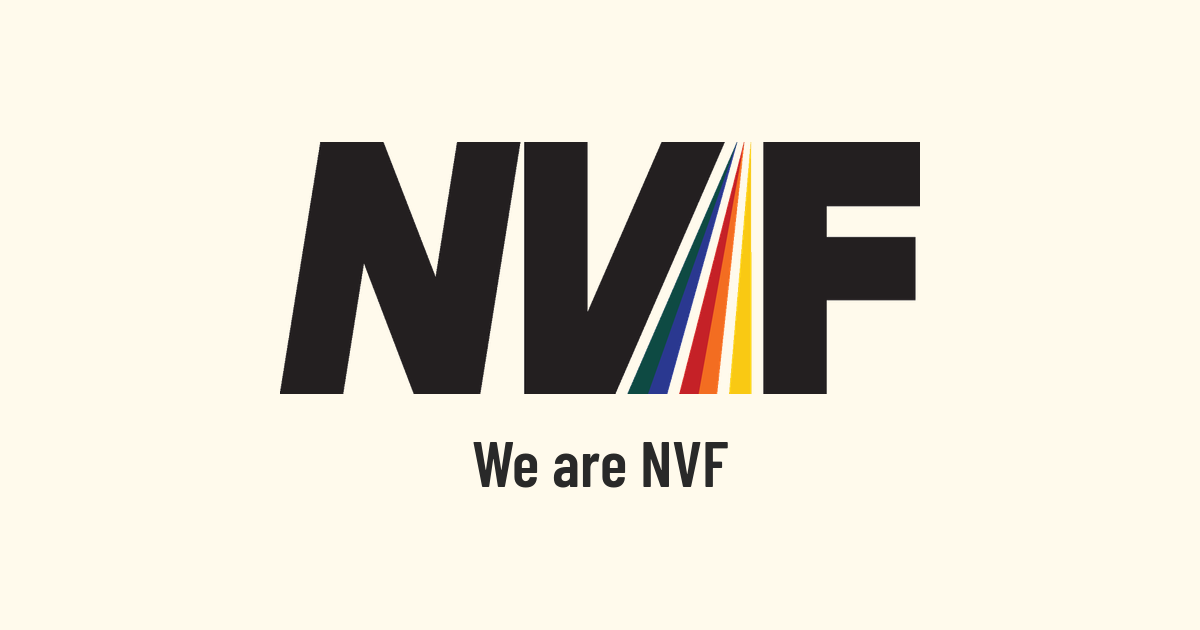
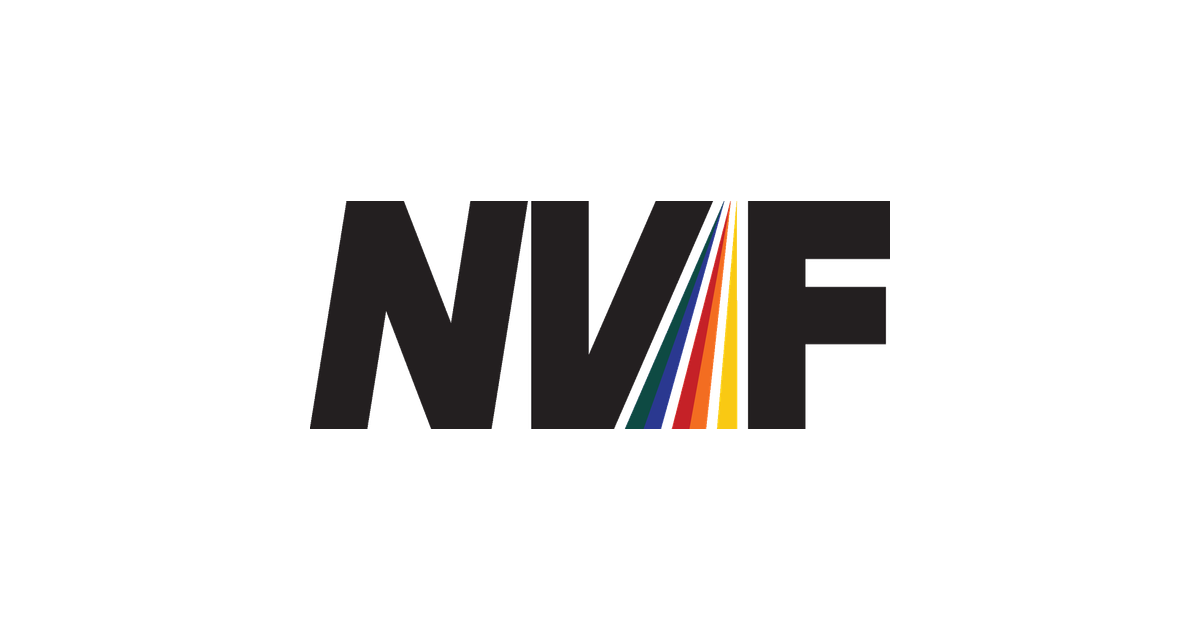
feat(seo): plain NVF mark and "Loving every frame" as the link preview
The owners' choice: the colour mark alone on white, sized to survive
WhatsApp's centre-square crop, and their line "Loving every frame" as the
homepage og:description. ?v=2 makes cached previews fetch the new image.

Changed region(s): [[0.2158, 0.2111, 0.7708, 0.7841]]

diff --git a/docs/PROJECT_CONTEXT.md b/docs/PROJECT_CONTEXT.md
@@ -2403,3 +2403,11 @@ The homepage's og:image is `public/brand/share.png`, 1200x630: the colour mark o
 `nvf-colour.png` and the TTF in `source-assets/fonts/`, colours read from
 `tokens.colour.css`. Other pages keep their own image. Released without the Codex review, on
 the user's instruction.
+
+## 43. Link preview: the plain mark and "Loving every frame" (2026-11-12)
+
+The owners replaced the §42 card. `share.png` is now the colour mark alone on white
+(`--print-paper`), 580 px wide so WhatsApp's centre-square crop keeps all of it. The
+homepage's `og:description` is the owners' own line, `Loving every frame`, in both locales;
+the meta description is unchanged. The image URL carries `?v=2` because WhatsApp caches a
+preview image by its URL.
